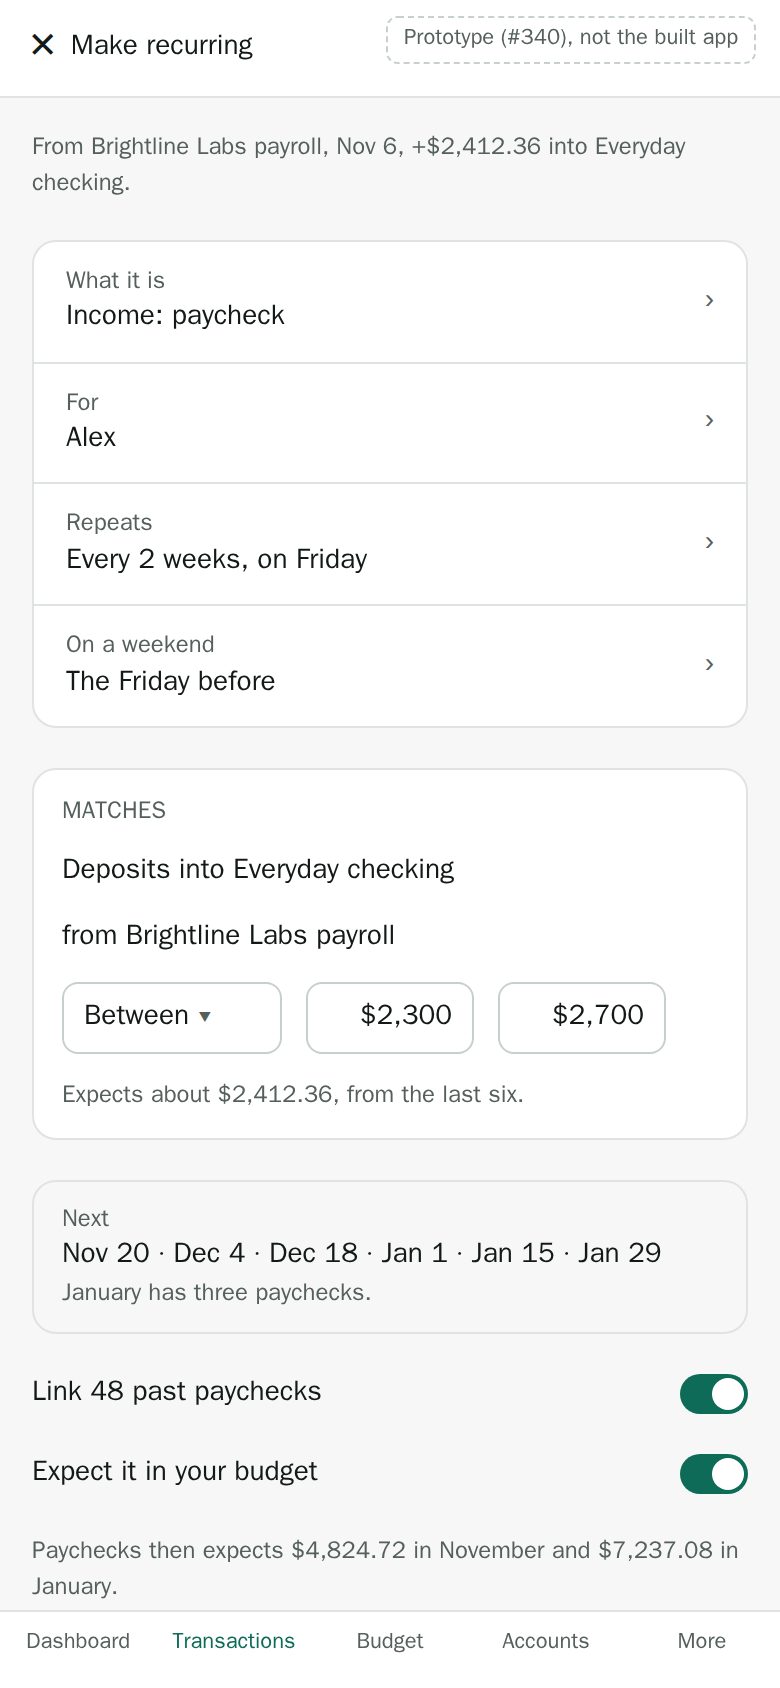
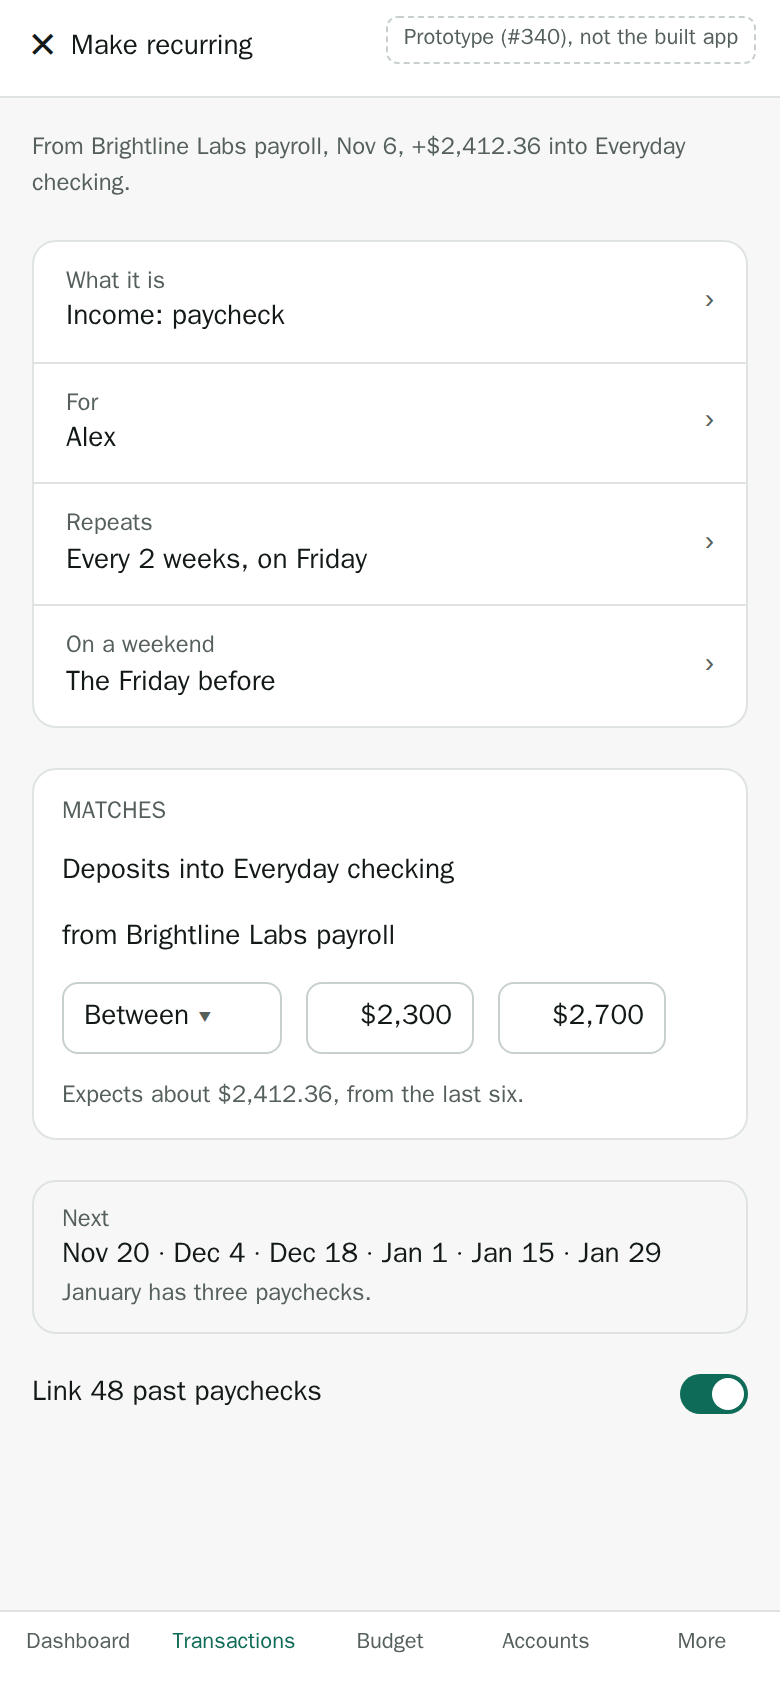
docs(bills): recurring stays apart from the budget (D7)
A series is for knowing what's coming and being reminded; it never sets
or changes a budget's amounts. Make recurring loses its "Expect it in
your budget" box.

Claude-Session: https://claude.ai/code/session_01DCnJZZ1VEBPAJXL3RVWrnd

diff --git a/docs/design/walkthroughs/bills/prototypes/05-make-recurring.html b/docs/design/walkthroughs/bills/prototypes/05-make-recurring.html
@@ -101,13 +101,6 @@
             Since Jan 2025. They keep their categories and notes.
           </div>
         </div>
-        <div>
-          <span class="check on"></span><b>Expect it in your budget</b>
-          <div class="small muted" style="margin-left: 22px">
-            Paychecks, in your budget, then expects $4,824.72 in November and $7,237.08 in January,
-            not the same amount every month. You can still type over it.
-          </div>
-        </div>
         <div class="actions">
           <span class="btn secondary">Cancel</span><span class="btn">Make recurring</span>
         </div>

diff --git a/docs/design/walkthroughs/bills/prototypes/12-phone-make-recurring.html b/docs/design/walkthroughs/bills/prototypes/12-phone-make-recurring.html
@@ -66,12 +66,6 @@
         <div class="row spread">
           <span>Link 48 past paychecks</span><span class="toggle on"></span>
         </div>
-        <div class="row spread">
-          <span>Expect it in your budget</span><span class="toggle on"></span>
-        </div>
-        <div class="small muted">
-          Paychecks then expects $4,824.72 in November and $7,237.08 in January.
-        </div>
       </div>
       <div class="tabs">
         <div class="">Dashboard</div>

diff --git a/docs/design/walkthroughs/bills.md b/docs/design/walkthroughs/bills.md
@@ -53,7 +53,7 @@ matched it), **late**, or **skipped**.
 
 **What it matches and what it expects are separate.** What it matches decides which payments
 count, and is plain enough to read and change: like a rule's conditions. What it expects is only
-an estimate, for totals, the budget and reminders. A paycheck that's smaller on the 15th, because
+an estimate, for totals and reminders. A paycheck that's smaller on the 15th, because
 an HSA contribution comes out of that one only, a commission that changes every month, a power
 bill that's higher in winter: each is one series with an amount condition wide enough for it
 ("between $2,300 and $2,700", "at least $1,000", "any amount"), and an estimate that follows what
@@ -144,17 +144,10 @@ what gives a new series its history and its "seen 48 times", and lets Fiscus est
 amount. They keep their categories, notes and splits. **+ Add recurring** on the page does the
 same without a transaction to start from, for a bill that hasn't been paid yet.
 
-**D7. Paychecks can set the budget's income.** With **Expect it in your budget** on, the budget's
-expected income for that category follows the paycheck's schedule: two paychecks in November
-($4,824.72), three in January ($7,237.08). Without it, a budget expects the same amount every
-month, and a 3-paycheck month looks like a windfall, or a 2-paycheck month like a shortfall.
-- An amount typed in the budget for a month still wins for that month.
-- The checkbox shows for income series when there's a budget that counts the category. It
-  starts ticked.
-- What it expects for a month is the estimate for each paycheck due in it, added up. For a
-  paycheck that's $2,600 on the 1st and $2,450 on the 15th, the estimate comes from recent
-  paychecks, so the month adds up to about $5,050; a raise or a new HSA contribution shows up in
-  the months after it.
+**D7. Recurring stays apart from the budget.** A series is for knowing what's coming and being
+reminded: it never sets or changes a budget's amounts, which stay the ones you typed. The
+budget counts what actually came in and went out, as before; Bills & recurring shows what's
+expected. They meet only in what you read: the weekly recap shows both (§8).
 
 ---
 
@@ -379,7 +372,7 @@ card, which Alex's doesn't. A quiet week still sends a short recap, so it's clea
 | D4 | Found: 3+ at a steady pace, still coming; it proposes an amount condition to edit | #119 |
 | D5 | Suggestions are reviewed on Bills & recurring; Not recurring is remembered | #119 |
 | D6 | Any transaction can start a series, and its past payments are linked | #118, #119 |
-| D7 | A paycheck can set the budget's expected income, month by month | #118, budgets |
+| D7 | Recurring never sets or changes a budget's amounts | #118 |
 | D8 | What's expected is estimated from last year's month and the last 3, apart from what matches | #120 |
 | D9 | Card statements come from the bank, and aren't added to bills | #122, #86 |
 | D10 | Series follow account visibility; Ours and Mine filter by who it's for | #118, ADR 0006 |
